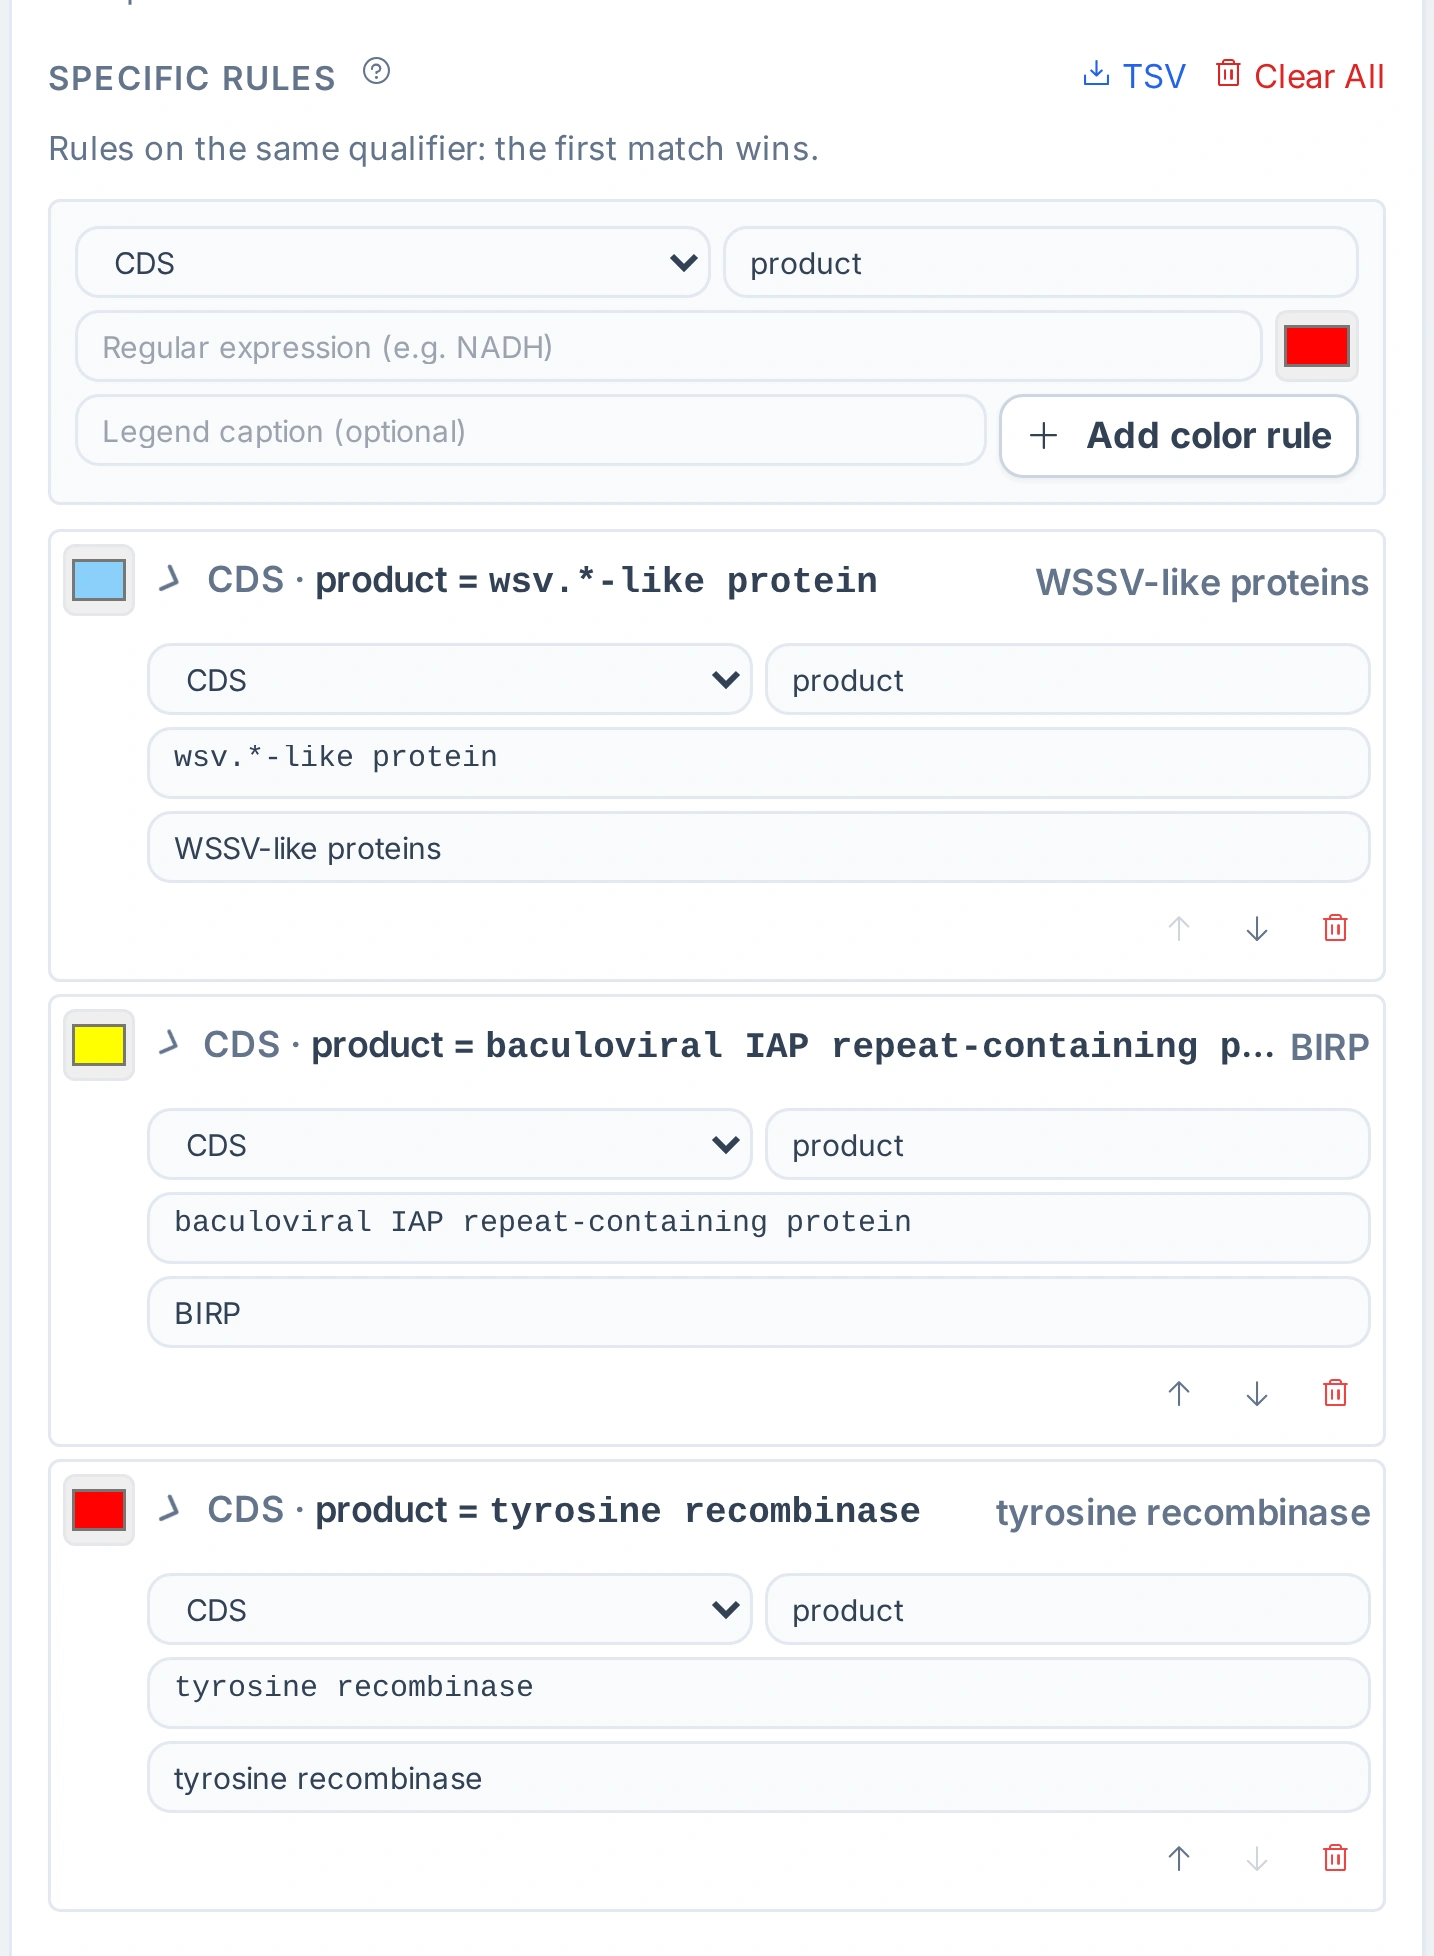
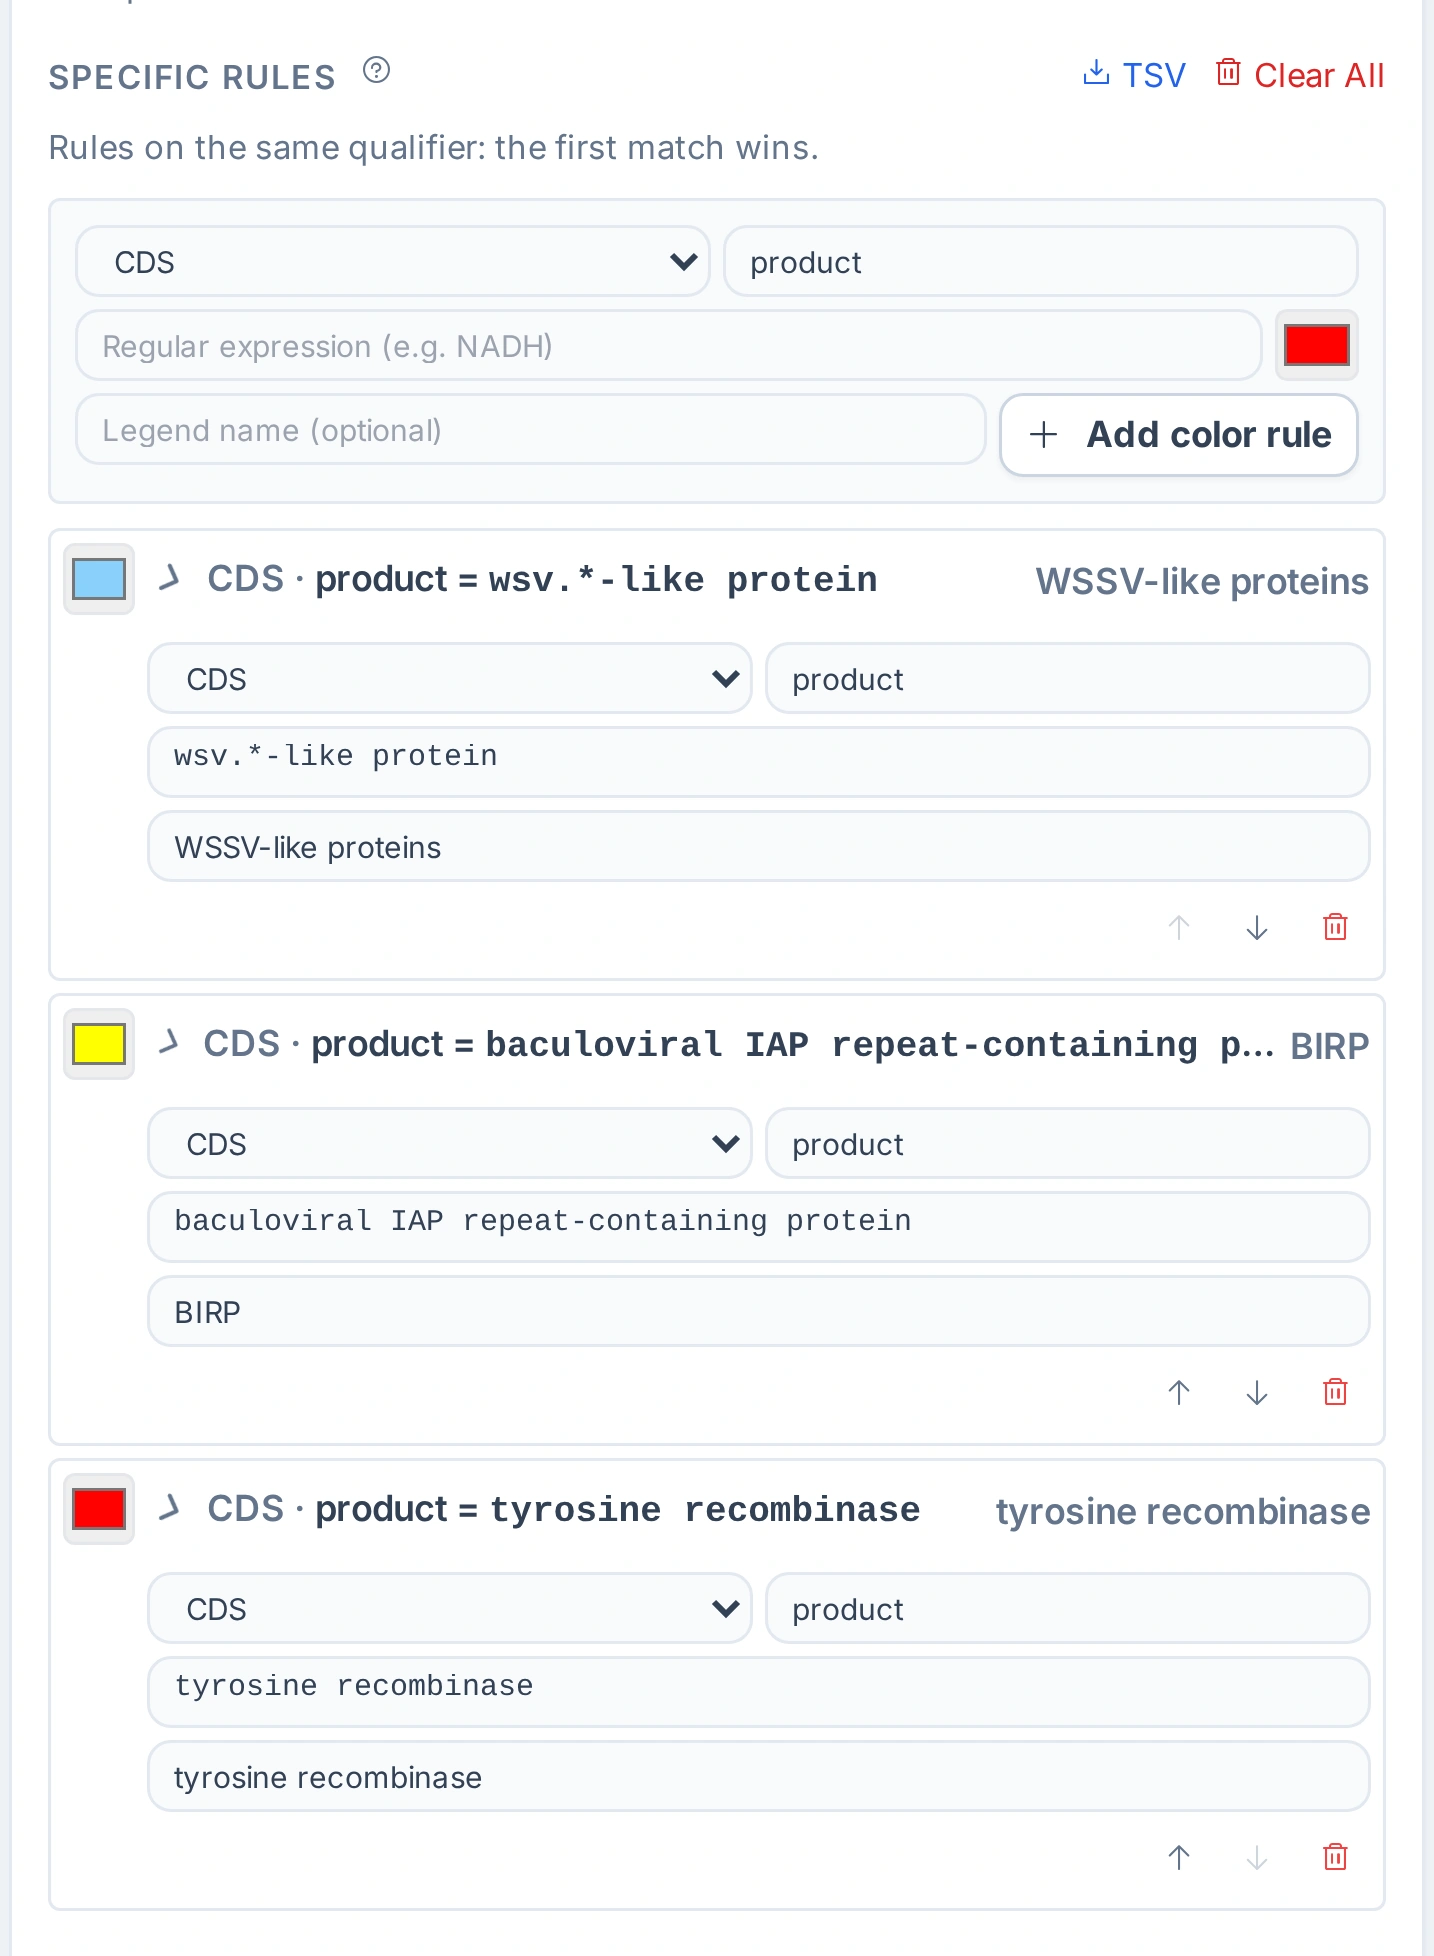
Rename two sidebar labels to the words the feature popup uses
The Feature Visibility rule action "Exclude from matching" is now "Leave
out of protein search", and its help text uses the same words. The color
rule field "Legend caption" is now "Legend name" in the placeholders and
the accessible names of the new-rule row, the rule rows, and the feature
popup's list of color rule names. The stored values (`exclude_matching`,
`cap`) do not change.

The Gallery tutorials, the Web reference, the screenshot skill, and the
capture flow's assertion message name the new labels. The three images
that showed an old label are recaptured with their owner tools: the
color rule images of the aminoglycoside BGC and majanivirus tutorials,
and the presentation settings image of the feature presentation how-to.

diff --git a/gbdraw/web/index.html b/gbdraw/web/index.html
@@ -4736,7 +4736,7 @@
                                         <input type="color" v-model="newSpecRule.color" aria-label="New color rule color" class="h-6 w-7 p-0 border rounded cursor-pointer shrink-0" :disabled="!semanticMutationAvailable">
                                     </div>
                                     <div class="flex gap-1">
-                                        <input v-model="newSpecRule.cap" aria-label="New color rule legend caption" placeholder="Legend caption (optional)" class="form-input form-input-compact min-w-0 flex-grow" :disabled="!semanticMutationAvailable">
+                                        <input v-model="newSpecRule.cap" aria-label="New color rule legend name" placeholder="Legend name (optional)" class="form-input form-input-compact min-w-0 flex-grow" :disabled="!semanticMutationAvailable">
                                         <button aria-label="Add color rule" @click="addSpecificRule" class="btn btn-secondary h-7 whitespace-nowrap px-2 text-xs" :disabled="!semanticMutationAvailable"><i class="ph ph-plus" aria-hidden="true"></i> Add color rule</button>
                                     </div>
                                 </div>
@@ -4749,7 +4749,7 @@
                                 <div class="mt-2">
                                     <file-uploader label="Specific rules file" v-model="files.t_color" :after-change="waitForAuxiliaryFileImport" :artifact-history="true" accept=".tsv,.tab,.txt,text/tab-separated-values,text/plain,text/*" :small="true"></file-uploader>
                                     <div class="ui-hint mt-1">
-                                        <help-tip text="TSV file of rules: feature type, qualifier, regular expression, color, and optional legend caption."></help-tip>
+                                        <help-tip text="TSV file of rules: feature type, qualifier, regular expression, color, and optional legend name."></help-tip>
                                         Optional TSV of specific rules.
                                     </div>
                                 </div>
@@ -4829,7 +4829,7 @@
 
                             <div data-setting="feature-visibility">
                                 <div class="flex items-center justify-between gap-2 mb-1.5">
-                                    <span class="input-label mb-0">Feature Visibility <help-tip id="help-feature-feature-visibility" text="Rules are evaluated from top to bottom. Off hides the feature and excludes it from protein comparisons; Exclude from matching keeps it visible but omits it from protein comparisons."></help-tip></span>
+                                    <span class="input-label mb-0">Feature Visibility <help-tip id="help-feature-feature-visibility" text="Rules are evaluated from top to bottom. Off hides the feature and leaves it out of protein search; Leave out of protein search keeps its visibility and leaves it out of protein search."></help-tip></span>
                                     <div class="flex items-center gap-2">
                                         <button
                                             v-if="featureVisibilityRules.length > 0"
@@ -4884,7 +4884,7 @@
                                             <select :value="rule.action" @change="setFeatureVisibilityRuleField(i, 'action', $event.target.value)" :aria-label="`Visibility rule ${i + 1} action`" class="form-input form-input-compact col-span-3" :disabled="!semanticMutationAvailable">
                                                 <option value="show">Show</option>
                                                 <option value="off">Off</option>
-                                                <option value="exclude_matching">Exclude from matching</option>
+                                                <option value="exclude_matching">Leave out of protein search</option>
                                             </select>
                                         </div>
                                         <div>
@@ -6262,7 +6262,7 @@
                             <select v-if="popupLegendGroups.length > 0"
                                     :disabled="!semanticMutationAvailable" @change="joinLegendGroup(popupLegendGroups[$event.target.value].group); $event.target.value = ''"
                                     data-history-managed
-                                    aria-label="Legend captions of color rules"
+                                    aria-label="Legend names of color rules"
                                     class="mt-1 w-full text-xs border border-slate-200 rounded-md px-2 py-1 bg-slate-50 text-slate-600">
                                 <option value="">Choose from color rules…</option>
                                 <option v-for="({ group, shownName }, index) in popupLegendGroups"
@@ -8630,7 +8630,7 @@
                         <button type="button" :disabled="!available" @pointerdown.prevent @click="$emit('revert-pattern', rule, $event.currentTarget.closest('[data-color-rule-row]').querySelector('input[data-history-ignore]'))" class="font-semibold text-blue-700 underline disabled:opacity-40">Revert</button>
                     </div>
                 </div>
-                <input :value="rule.cap" @change="$emit('set-field', i, 'cap', $event.target.value, $event.target)" :aria-label="`Color rule ${i + 1} legend caption`" placeholder="Legend caption" class="form-input form-input-compact w-full" :disabled="!available">
+                <input :value="rule.cap" @change="$emit('set-field', i, 'cap', $event.target.value, $event.target)" :aria-label="`Color rule ${i + 1} legend name`" placeholder="Legend name" class="form-input form-input-compact w-full" :disabled="!available">
                 <div class="flex items-center justify-end gap-0.5">
                     <button aria-label="Move rule up" @click="$emit('move-up', i)" :disabled="!available || (i === 0)" class="h-6 w-6 text-slate-500 hover:text-blue-600 disabled:opacity-30" title="Move rule up"><i class="ph ph-arrow-up" aria-hidden="true"></i></button>
                     <button aria-label="Move rule down" @click="$emit('move-down', i)" :disabled="!available || (i === rules.length - 1)" class="h-6 w-6 text-slate-500 hover:text-blue-600 disabled:opacity-30" title="Move rule down"><i class="ph ph-arrow-down" aria-hidden="true"></i></button>

diff --git a/tests/web/live-generate-parity-legend.playwright.spec.js b/tests/web/live-generate-parity-legend.playwright.spec.js
@@ -733,7 +733,7 @@ const colorIdNames = (page) => page.evaluate(() => {
     ...rows.map((row) => row.querySelector('text')?.textContent || ''),
     ...app.legendEntries.map((entry) => entry.caption),
     ...app.manualSpecificRules.map((rule) => rule.cap),
-    ...[...document.querySelectorAll('select[aria-label="Legend captions of color rules"] option')].map((option) => option.textContent.trim())
+    ...[...document.querySelectorAll('select[aria-label="Legend names of color rules"] option')].map((option) => option.textContent.trim())
   ].filter((name) => name.includes(' [#'));
 });
 const ruleTable = (page) => page.evaluate(() => window.__GBDRAW_APP__.manualSpecificRules.map(({ val, cap, color }) => [val, cap, color]));
@@ -778,7 +778,7 @@ const openPopup = async (page, match) => {
       Object.entries(fields).every(([field, value]) => item[field] === value))), null);
     await window.Vue.nextTick();
   }, match);
-  return page.getByLabel('Legend captions of color rules');
+  return page.getByLabel('Legend names of color rules');
 };
 const featureFill = async (page, match) => {
   const id = await page.evaluate((fields) => window.__GBDRAW_APP__.filteredFeatures.find((item) => (

diff --git a/tests/web/preview-item-popup.playwright.spec.js b/tests/web/preview-item-popup.playwright.spec.js
@@ -278,7 +278,7 @@ test('two color rules of one caption: the popups and the deleted list show names
   expect.soft(await nameField.getAttribute('list')).toBeNull();
   expect.soft(await page.locator('#specific-rule-legend-name-options').count()).toBe(0);
   // The list shows each group as the Legend shows its row: by the drawn name, never by the key.
-  const offered = () => page.getByLabel('Legend captions of color rules', { exact: true }).locator('option').allTextContents()
+  const offered = () => page.getByLabel('Legend names of color rules', { exact: true }).locator('option').allTextContents()
     .then((texts) => texts.map((text) => text.trim()).slice(1).filter((text) => text.startsWith('Shared')).sort());
   expect.soft(await offered()).toEqual(['Shared (1)', 'Shared (2)']);
 

diff --git a/gbdraw/web/js/services/feature-visibility.js b/gbdraw/web/js/services/feature-visibility.js
@@ -545,8 +545,8 @@ const colorRuleMatcher = (context) => {
 
 // "Is this feature drawn?" as Generate answers it
 // (gbdraw/features/visibility.py::should_render_feature): the feature's
-// identity-keyed override decides when On or Off, and Exclude from matching
-// skips the rules; else the first matching visibility rule decides when Show
+// identity-keyed override decides when On or Off, and Leave out of protein
+// search skips the rules; else the first matching visibility rule decides when Show
 // or Off; else the selected feature types, where a feature of another type is
 // drawn when a specific color rule matches it. Python matches the rules
 // (app/rule-matching.js, R4); the shared vectors in

diff --git a/tests/test_gui_presentation_capture_contracts.py b/tests/test_gui_presentation_capture_contracts.py
@@ -172,7 +172,7 @@ def test_presentation_capture_has_semantic_svg_guards() -> None:
         "_normalized_visibility_rules(report) != EXPECTED_VISIBILITY_RULES",
         "if len(underlays) != 22:",
         'raise AssertionError("The off rule did not remove COX1")',
-        'raise AssertionError("Exclude from matching incorrectly hid ATP6")',
+        'raise AssertionError("Leave out of protein search incorrectly hid ATP6")',
         'raise AssertionError("D-loop or rRNA did not render as a rectangle")',
         'raise AssertionError("A CDS did not render with arrow-head geometry")',
         "if len(radial_bands) < 2:",

diff --git a/docs/capture/flows/how_to/presentation.py b/docs/capture/flows/how_to/presentation.py
@@ -528,7 +528,7 @@ def _assert_feature_presentation_svg(report: dict[str, Any]) -> None:
         if not any(
             row.get("product") == "ATP synthase F0 subunit 6" for row in metadata
         ):
-            raise AssertionError("Exclude from matching incorrectly hid ATP6")
+            raise AssertionError("Leave out of protein search incorrectly hid ATP6")
 
     foreground = [feature for feature in features if not feature.get("underlay")]
     if not foreground:

diff --git a/.claude/skills/web-gallery-screenshot-maintenance/SKILL.md b/.claude/skills/web-gallery-screenshot-maintenance/SKILL.md
@@ -179,7 +179,7 @@ Use structured display when tutorial content has repeated fields.
 
 - Prefer a table over slash-delimited bullets for color rules, track-slot recipes, file mappings, record metadata, or any list where each row shares the same fields.
 - When one slash-delimited or comma-packed structured list is found, scan sibling tutorial JSON for the same pattern before stopping; convert true repeated-field content and leave simple one-column checklists as bullets.
-- Use clear column headers that match the UI or data model, such as `Feature`, `Qualifier`, `Value pattern`, `Color`, and `Legend caption`.
+- Use clear column headers that match the UI or data model, such as `Feature`, `Qualifier`, `Value pattern`, `Color`, and `Legend name`.
 - Keep caveats such as regex specificity in a separate `note`; do not hide them inside a dense row.
 - If the Gallery renderer only supports bullet lists, add a small reusable renderer field such as `table: { columns, rows }` rather than encoding table markup in JSON strings.
 - Add compact CSS with horizontal overflow for narrow viewports and update focused browser tests to assert table headers and representative rows.

diff --git a/docs/REFERENCE/web-app.md b/docs/REFERENCE/web-app.md
@@ -1454,7 +1454,7 @@ Feature Search and Interactive SVG search. TSV columns and pattern semantics
 are specified in [Input formats and TSV schemas](input-formats-and-tsv-schemas.md#styling-tables).
 
 Each specific color rule is one line: its color, then a summary of feature
-type, qualifier, pattern and legend caption. The summary opens the rule's
+type, qualifier, pattern and legend name. The summary opens the rule's
 editor with those fields and the **Move rule up**, **Move rule down** and
 **Delete rule** buttons.
 
